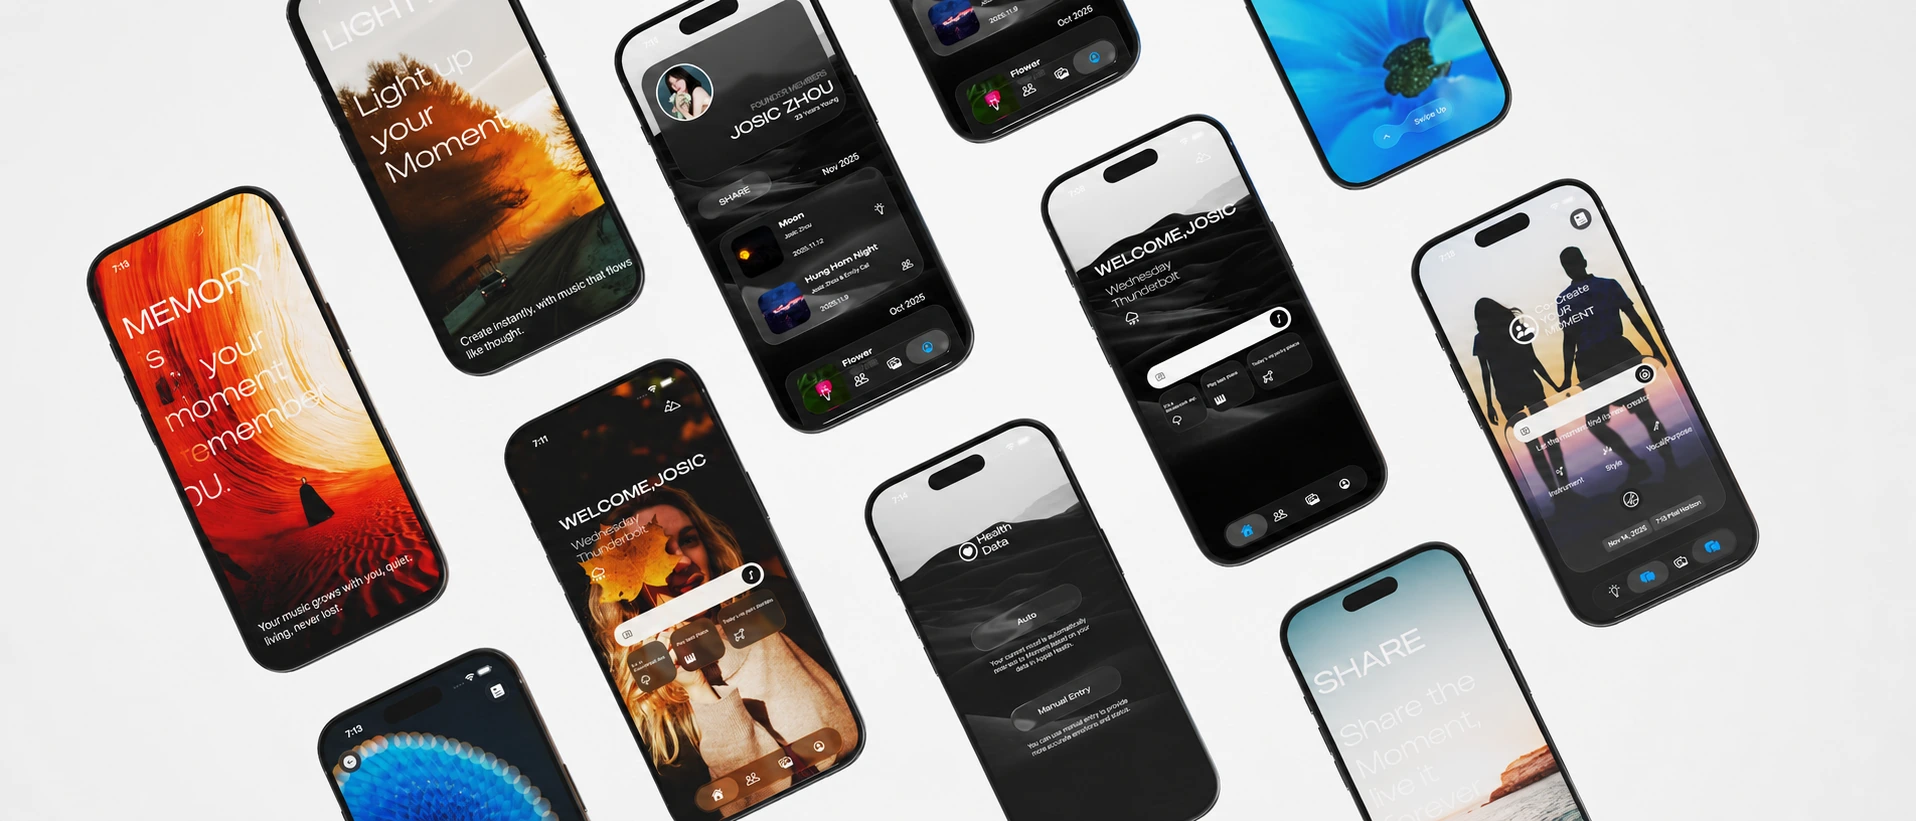
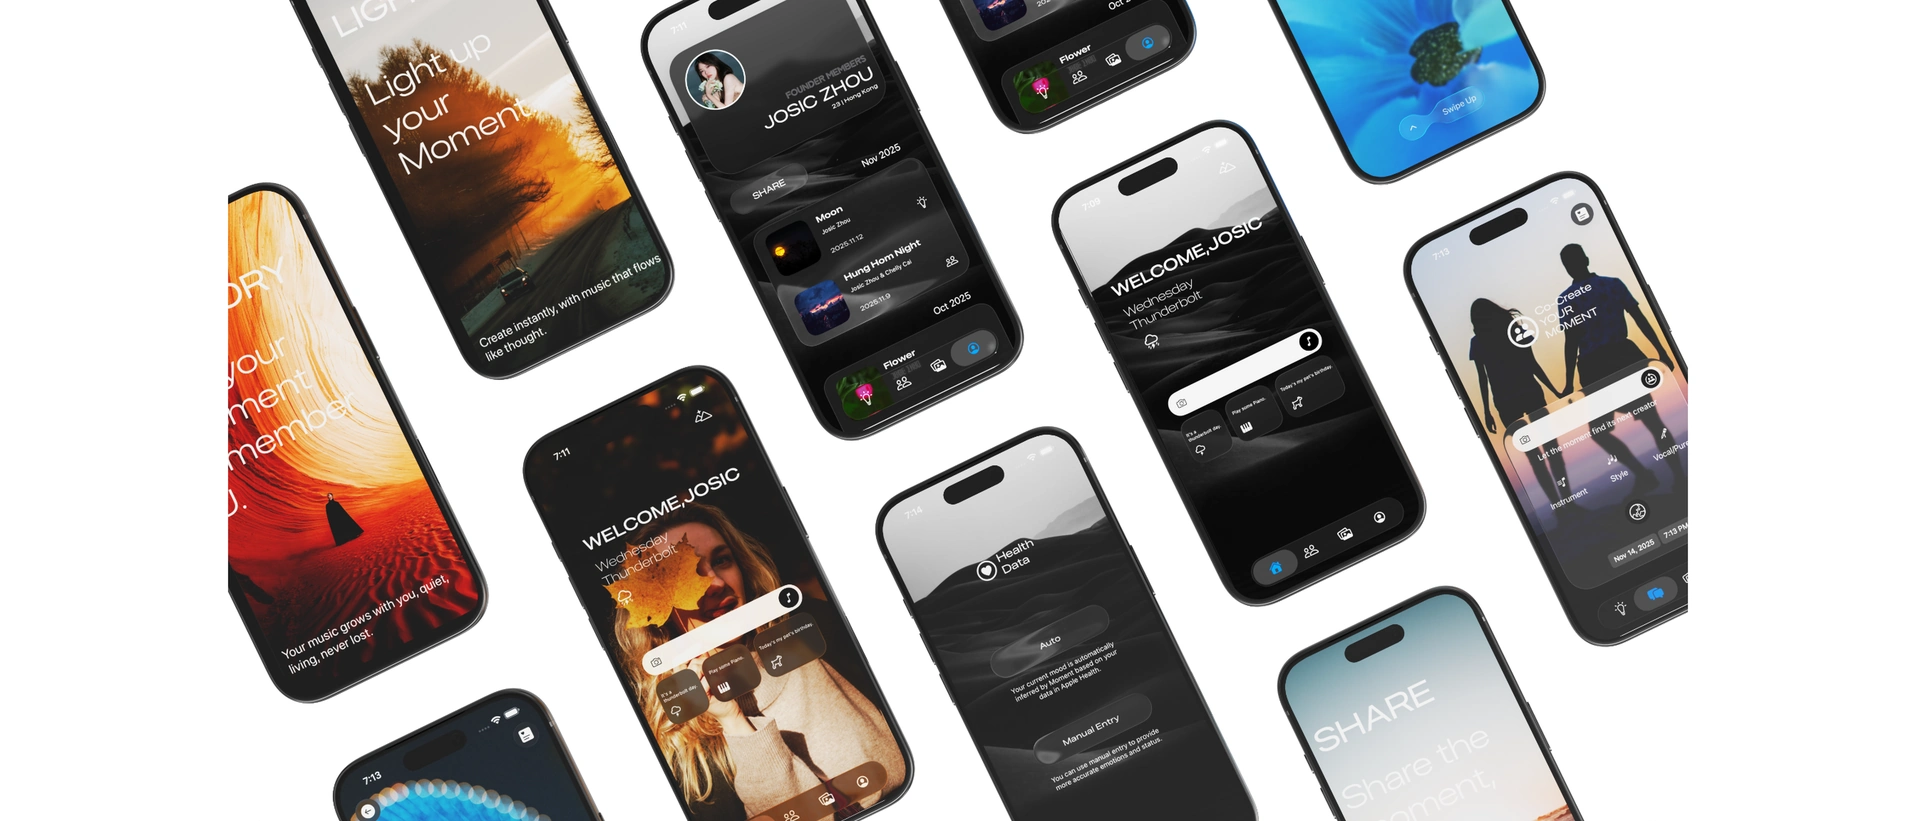
fix: align Momenta radial reveal states

diff --git a/src/main.jsx b/src/main.jsx
@@ -4746,8 +4746,6 @@ function ScrollFrameSequence({ frames, effect = 'crossfade' }) {
         '--reveal-radius': `${waveRadius.toFixed(2)}%`,
         '--reveal-solid': `${Math.max(0, waveRadius - 16).toFixed(2)}%`,
         '--reveal-soft': `${Math.max(0, waveRadius - 5).toFixed(2)}%`,
-        '--reveal-scale': (1.012 - waveProgress * 0.012).toFixed(4),
-        '--base-scale': (1 + waveProgress * 0.006).toFixed(4),
         '--wave-inner': `${Math.max(0, waveBand - 4).toFixed(2)}%`,
         '--wave-mid': `${waveBand.toFixed(2)}%`,
         '--wave-outer': `${Math.min(150, waveBand + 9).toFixed(2)}%`,

diff --git a/src/styles.css b/src/styles.css
@@ -1915,11 +1915,11 @@ img {
 }
 
 .detail-scroll-frame-sequence[data-sequence-effect="radial-wave"] .detail-sequence-base {
-  transform: scale(var(--base-scale, 1));
+  transform: translateZ(0);
 }
 
 .detail-scroll-frame-sequence[data-sequence-effect="radial-wave"] .detail-sequence-reveal {
-  transform: scale(var(--reveal-scale, 1));
+  transform: translateZ(0);
   clip-path: circle(var(--reveal-radius, 1%) at 50% 50%);
 }
 
